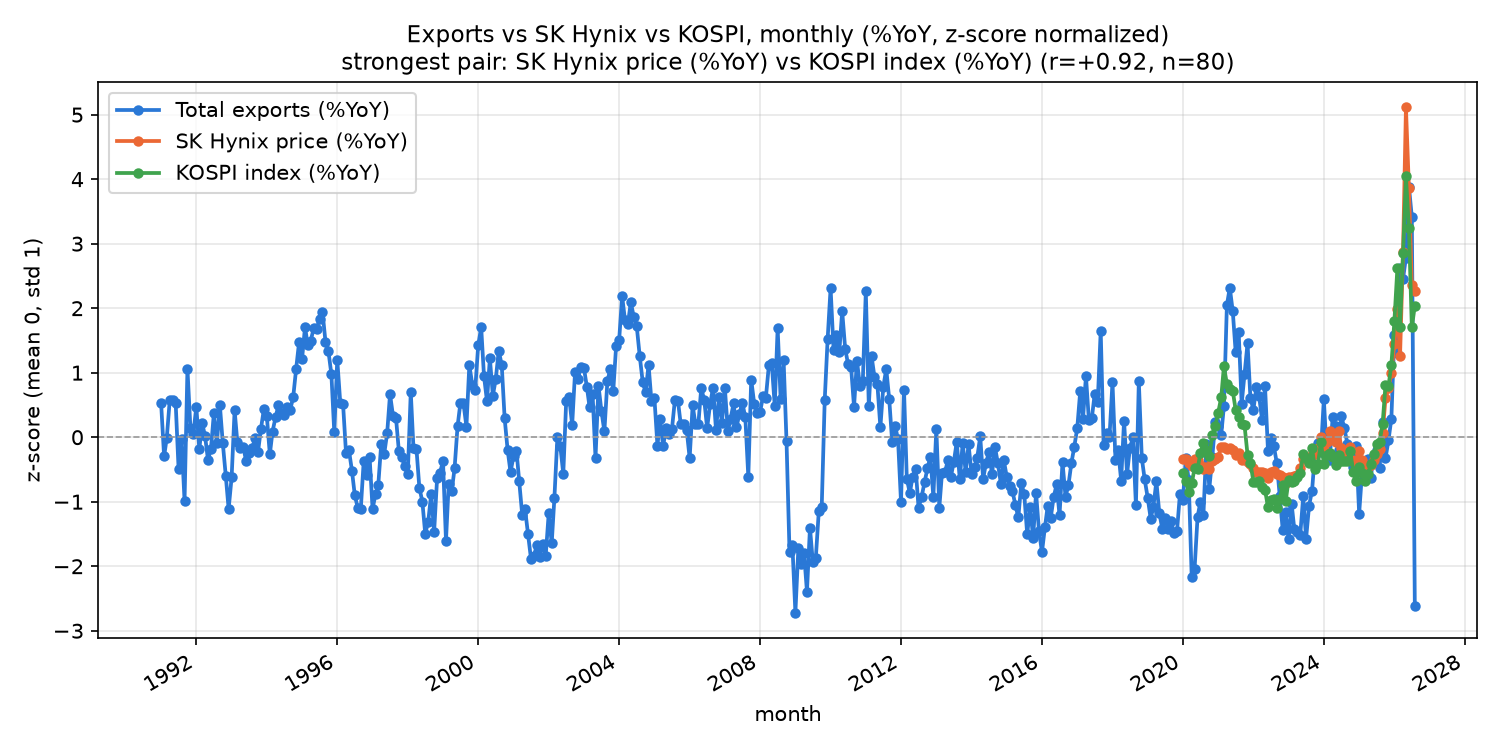
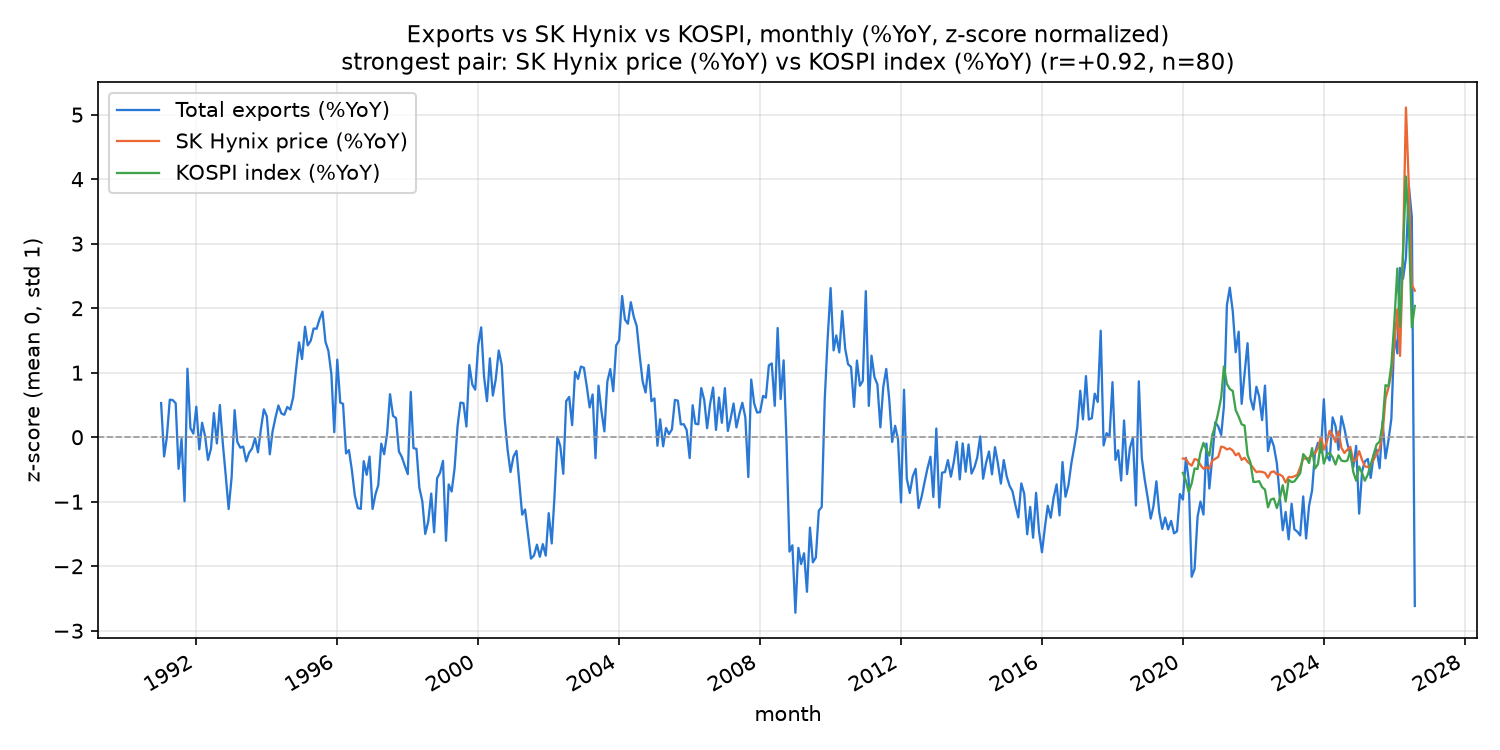
style: 월별 차트 선을 얇게, 점 마커 제거 (세 곡선 가독성)
사용자 요청 — 점 마커가 상승/하강 흐름을 가려서 얇은 선(1.8→1.1)만 남겼다.

임시: 코스피 2019년 이전 이력이 KIS API의 실제 제약인지, 아니면 이
저장소가 임의로 고른 backfill 시작점(2019-01, 애초 사용자가 '2019년부터'로
요청했던 값)일 뿐인지 확인하는 프로브 워크플로 추가 — 1995~1999, 1980~1984
구간을 실제로 요청해본다. 확인되면 삭제(다른 probe workflow들과 동일 패턴).

Changed region(s): [[0.3373, 0.2147, 0.9507, 0.828], [0.092, 0.4293, 0.3067, 0.736], [0.3067, 0.4293, 0.3373, 0.5827]]

diff --git a/scripts/correlation_analysis.py b/scripts/correlation_analysis.py
@@ -443,13 +443,15 @@ def render_chart(df: pd.DataFrame, top_pair: dict | None) -> None:
     if plot_df.empty:
         return
 
+    # 2026-08-17: 사용자 요청 — 점 마커를 없애고 선을 얇게 해서(1.8→1.1) 세
+    # 곡선의 상승/하강이 점에 가려지지 않고 잘 보이도록.
     fig, ax = plt.subplots(figsize=(10, 5))
     for c in cols:
         series = plot_df[c].dropna()
         if series.empty:
             continue
         z = (series - series.mean()) / series.std(ddof=0)
-        ax.plot(z.index, z.values, marker="o", markersize=4, linewidth=1.8,
+        ax.plot(z.index, z.values, linewidth=1.1,
                 color=MONTHLY_CHART_COLORS.get(c, "#888888"), label=SERIES_LABELS_CHART[c])
     ax.axhline(0, color="#999999", linewidth=0.8, linestyle="--")
     ax.set_title(
